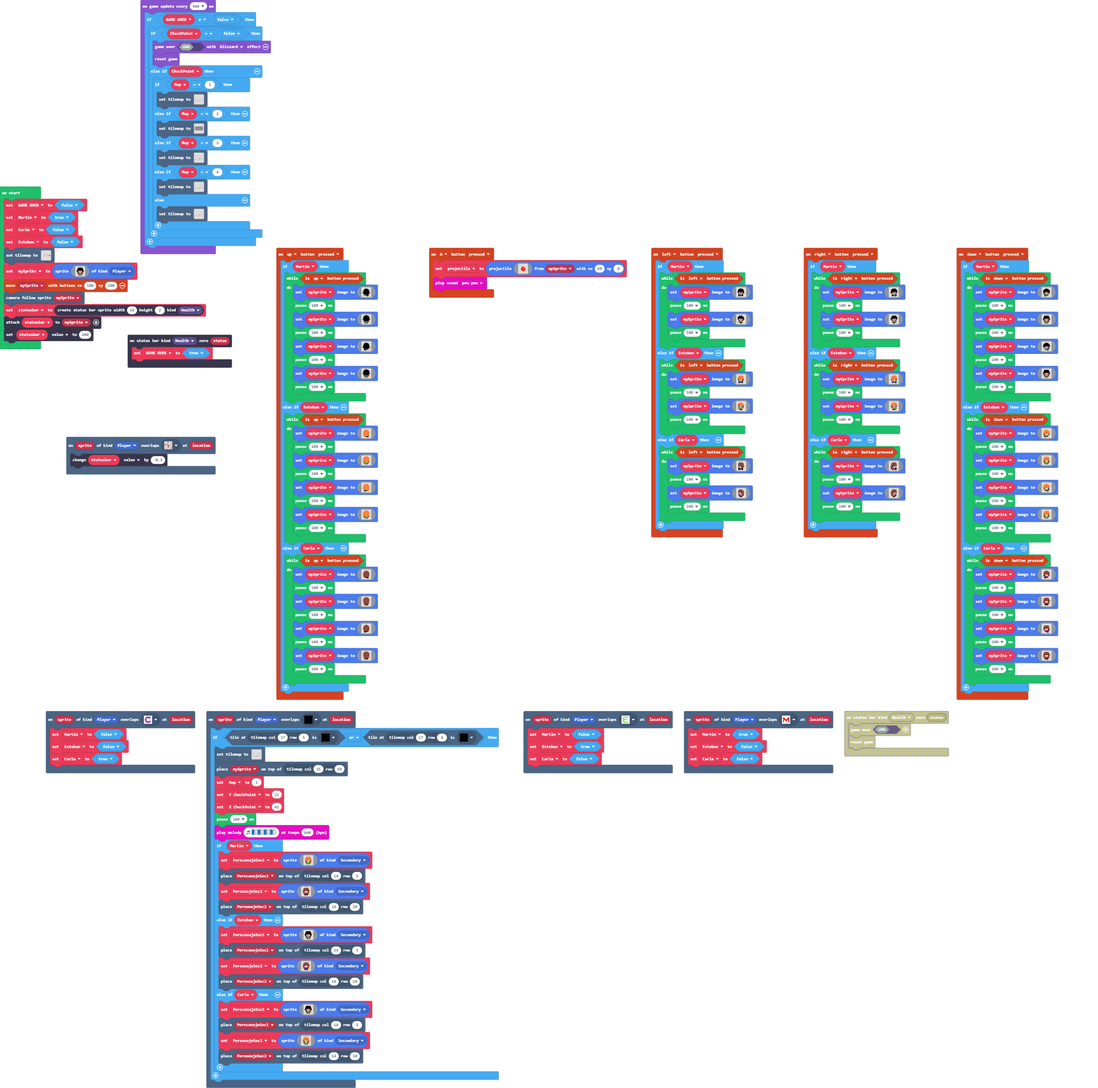
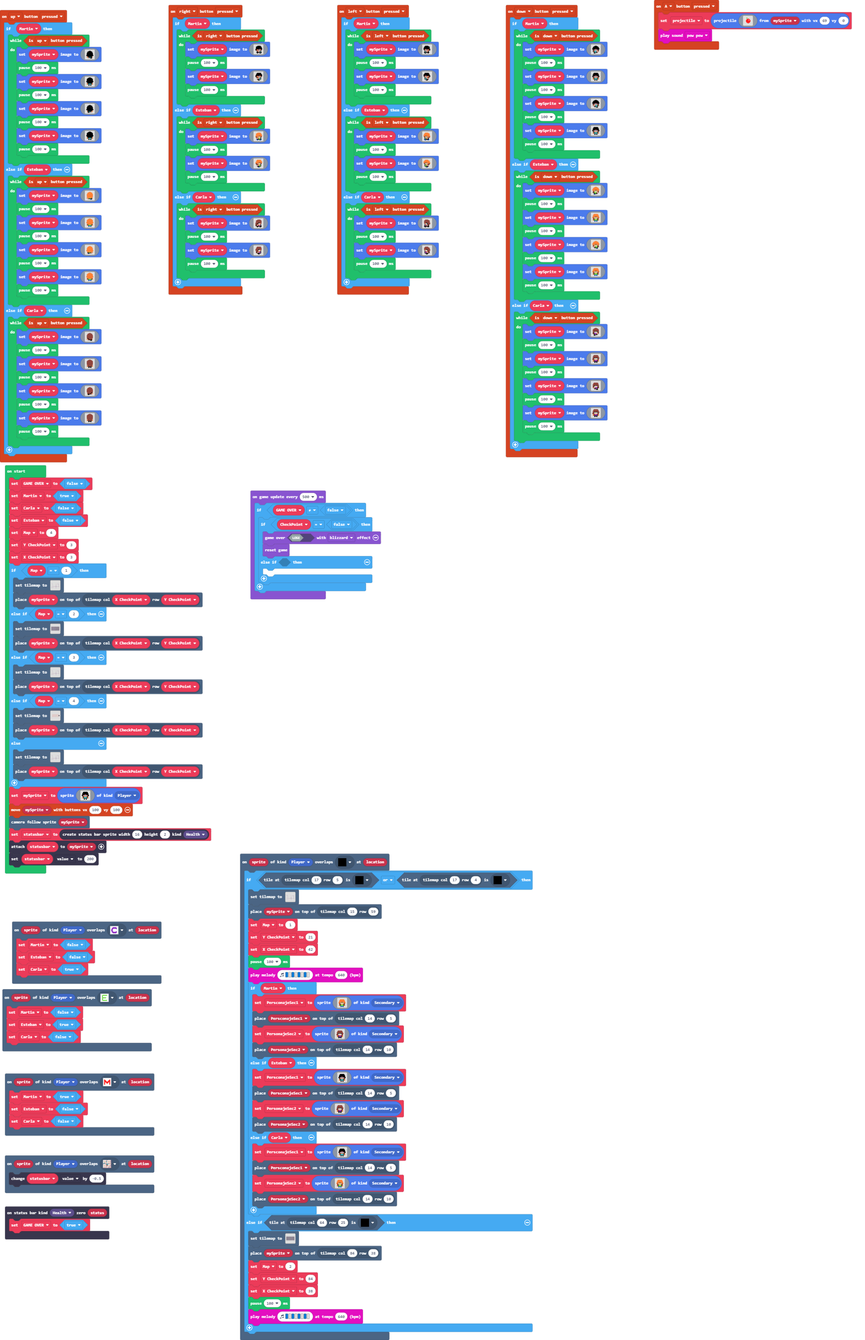
Reespawn

diff --git a/tilemap.g.ts b/tilemap.g.ts
@@ -684,8 +684,65 @@ namespace myTiles {
 . . . . . . . . . . . . . . . . 
 . . . . . . . . . . . . . . . . 
 `, [myTiles.transparency16], TileScale.Sixteen);
+            case "level11":
+            case "level11":return tiles.createTilemap(hex`1000100000000000000000000000000000000000000000000000000000000000000000000000000000000000000000000000000000000000000000000000000000000000000000000000000000000000000000000000000000000000000000000000000000000000000000000000000000000000000000000000000000000000000000000000000000000000000000000000000000000000000000000000000000000000000000000000000000000000000000000000000000000000000000000000000000000000000000000000000000000000000000000000000000000000000000000000000000000000000000000000000000000000000000000000000000000000`, img`
+. . . . . . . . . . . . . . . . 
+. . . . . . . . . . . . . . . . 
+. . . . . . . . . . . . . . . . 
+. . . . . . . . . . . . . . . . 
+. . . . . . . . . . . . . . . . 
+. . . . . . . . . . . . . . . . 
+. . . . . . . . . . . . . . . . 
+. . . . . . . . . . . . . . . . 
+. . . . . . . . . . . . . . . . 
+. . . . . . . . . . . . . . . . 
+. . . . . . . . . . . . . . . . 
+. . . . . . . . . . . . . . . . 
+. . . . . . . . . . . . . . . . 
+. . . . . . . . . . . . . . . . 
+. . . . . . . . . . . . . . . . 
+. . . . . . . . . . . . . . . . 
+`, [myTiles.transparency16], TileScale.Sixteen);
+            case "level12":
+            case "level12":return tiles.createTilemap(hex`1000100000000000000000000000000000000000000000000000000000000000000000000000000000000000000000000000000000000000000000000000000000000000000000000000000000000000000000000000000000000000000000000000000000000000000000000000000000000000000000000000000000000000000000000000000000000000000000000000000000000000000000000000000000000000000000000000000000000000000000000000000000000000000000000000000000000000000000000000000000000000000000000000000000000000000000000000000000000000000000000000000000000000000000000000000000000000`, img`
+. . . . . . . . . . . . . . . . 
+. . . . . . . . . . . . . . . . 
+. . . . . . . . . . . . . . . . 
+. . . . . . . . . . . . . . . . 
+. . . . . . . . . . . . . . . . 
+. . . . . . . . . . . . . . . . 
+. . . . . . . . . . . . . . . . 
+. . . . . . . . . . . . . . . . 
+. . . . . . . . . . . . . . . . 
+. . . . . . . . . . . . . . . . 
+. . . . . . . . . . . . . . . . 
+. . . . . . . . . . . . . . . . 
+. . . . . . . . . . . . . . . . 
+. . . . . . . . . . . . . . . . 
+. . . . . . . . . . . . . . . . 
+. . . . . . . . . . . . . . . . 
+`, [myTiles.transparency16], TileScale.Sixteen);
+            case "level13":
+            case "level13":return tiles.createTilemap(hex`1000100000000000000000000000000000000000000000000000000000000000000000000000000000000000000000000000000000000000000000000000000000000000000000000000000000000000000000000000000000000000000000000000000000000000000000000000000000000000000000000000000000000000000000000000000000000000000000000000000000000000000000000000000000000000000000000000000000000000000000000000000000000000000000000000000000000000000000000000000000000000000000000000000000000000000000000000000000000000000000000000000000000000000000000000000000000000`, img`
+. . . . . . . . . . . . . . . . 
+. . . . . . . . . . . . . . . . 
+. . . . . . . . . . . . . . . . 
+. . . . . . . . . . . . . . . . 
+. . . . . . . . . . . . . . . . 
+. . . . . . . . . . . . . . . . 
+. . . . . . . . . . . . . . . . 
+. . . . . . . . . . . . . . . . 
+. . . . . . . . . . . . . . . . 
+. . . . . . . . . . . . . . . . 
+. . . . . . . . . . . . . . . . 
+. . . . . . . . . . . . . . . . 
+. . . . . . . . . . . . . . . . 
+. . . . . . . . . . . . . . . . 
+. . . . . . . . . . . . . . . . 
+. . . . . . . . . . . . . . . . 
+`, [myTiles.transparency16], TileScale.Sixteen);
             case "Laberinto_map2":
-            case "level1":return tiles.createTilemap(hex`5500280001010101010101010101010101010101010101010101010101010101010101010101010101010101010101010101010101010101010101010101010101010101010101010101010101010101010101010101010101010202020202020202010102020202020202020202020202020202020202020202020202020202020202020201010202020202020202020202020202020202020101020202020202020202020202020202020202010102020202020202020101020202020202020202020202020202020202020202020202020202020202020202010102020202020202020202020202020202020201010202020202020202020202020202020202020101020202020202020201010202020202020202020202020202020202020202020202020202020202020202020101020202020202020202020202020202020202010102020202020202020202020202020202020201010202020101010101010102020201010202020101010101010102020201010101010101010101010102020201010202020101010101010102020201010202020101010101010101010101010202020101020202010102020201010101010101020202010102020201010101010101020202010101010101010101010101020202010102020201010101010101020202010102020201010101010101010101010102020201010202020101020202020202020202020202020101020202010102020201010202020202020202020202020201010202020202020202010102020201010202020101020202010102020202020202020202020202010102020201010202020202020202020202020201010202020101020202010102020202020202020202020202010102020202020202020101020202010102020201010202020101020202020202020202020202020101020202010102020202020202020202020202010102020201010202020101020202020202020202020202020101020202020202020201010202020101020202010102020201010202020202020202020202020201010202020101010101010102020201010101010101020202010102020201010101010101010101010102020201010101010101010101010102020201010202020101020202010102020201010101010101010101010102020201010101010101020202010101010101010202020101020202010101010101010101010101020202010101010101010101010101020202010102020201010202020101020202010101010101010101010101020202010102020201010202020101020202020202020202020202020101020202020202020201010202020202020202010102020202020202020202020202010102020202020202020101020202020202020201010202020101020202010102020201010202020202020202020202020201010202020202020202010102020202020202020101020202020202020202020202020101020202020202020201010202020202020202010102020201010202020101020202010102020202020202020202020202010102020202020202020101020202020202020201010202020202020202020202020201010202020202020202010102020202020202020101020202010102020201010202020101020202010101010101010101010101020202010101010101010101010101020202010101010101010101010101020202010101010101010101010101020202010102020201010202020101020202010102020201010202020101010101010101010101010202020101010101010101010101010202020101010101010101010101010202020101010101010101010101010202020101020202010102020201010202020202020202010102020202020202020202020202020202020202020202020101020202020202020201010202020202020202010102020201010202020202020202010102020201010202020101020202010102020202020202020101020202020202020202020202020202020202020202020201010202020202020202010102020202020202020101020202010102020202020202020101020202010102020201010202020101020202020202020201010202020202020202020202020202020202020202020202010102020202020202020101020202020202020201010202020101020202020202020201010202020101020202010102020201010101010101010101010101010101010101010101010101010102020201010202020101020202010101010101010202020101020202010101010101010202020101020202010102020201010202020101020202010101010101010101010101010101010101010101010101010101020202010102020201010202020101010101010102020201010202020101010101010102020201010202020101020202010102020201010202020101020202020202020202020202020101020202020202020202020202020101020202010102020202020202020202020202010102020202020202020101020202010102020202020202020101020202020202020201010202020202020202020202020201010202020202020202020202020201010202020101020202020202020202020202020101020202020202020201010202020101020202020202020201010202020202020202010102020202020202020202020202010102020202020202020202020202010102020201010202020202020202020202020201010202020202020202010102020201010202020202020202010102020202020202020101020202010101010101010202020101020202010101010101010101010101010101010101010101010101010101010101010102020201010202020101020202010101010101010101010101010101010101010101010202020101010101010102020201010202020101010101010101010101010101010101010101010101010101010101010101020202010102020201010202020101010101010101010101010101010101010101010102020201010202020202020202010102020201010202020202020202010102020202020202020202020202010102020202020202020101020202010102020202020202020101020202010102020202020202020101020202010102020202020202020101020202010102020202020202020101020202020202020202020202020101020202020202020201010202020101020202020202020201010202020101020202020202020201010202020101020202020202020201010202020101020202020202020201010202020202020202020202020201010202020202020202010102020201010202020202020202010102020201010202020202020202010102020201010202020101020202010102020201010202020101020202010102020201010202020101020202010102020201010101010101020202010101010101010202020101020202010102020201010202020101020202010102020201010202020101020202010102020201010202020101020202010102020201010202020101020202010101010101010202020101010101010102020201010202020101020202010102020201010202020101020202010102020201010202020202020202010102020202020202020101020202010102020201010202020101020202010102020202020202020101020202010102020202020202020101020202010102020201010202020101020202010102020202020202020101020202020202020201010202020101020202010102020201010202020101020202020202020201010202020101020202020202020201010202020101020202010102020201010202020101020202020202020201010202020202020202010102020201010202020101020202010102020201010202020202020202010102020201010202020202020202010102020201010202020101020202010101010101010101010101010101010101010101010101010101020202010101010101010202020101020202010101010101010202020101020202010101010101010101010101020202010102020201010202020101010101010101010101010101010101010101010101010101010202020101010101010102020201010202020101010101010102020201010202020101010101010101010101010202020101020202010102020202020202020202020202020202020202020202020202020202020202020201010202020202020202010102020202020202020202020202010102020202020202020202020202020202020202010202020101020202020202020202020202020202020202020202020202020202020202020202010102020202020202020101020202020202020202020202020101020202020202020202020202020202020202020102020201010202020202020202020202020202020202020202020202020202020202020202020101020202020202020201010202020202020202020202020201010202020202020202020202020202020202020201020202010101010101010101010101010101010101010101010101010101010101010101010101010101010101010101010101010101010101010101010101010101010101010101010101010101010101010101`, img`
+            case "level1":return tiles.createTilemap(hex`5500280001010101010101010101010101010101010101010101010101010101010101010101010101010101010101010101010101010101010101010101010101010101010101010101010101010101010101010101010101010202020202020202010102020202020202020202020202020202020202020202020202020202020202020201010202020202020202020202020202020202020101020202020202020202020202020202020202010102020202020202020101020202020202020202020202020202020202020202020202020202020202020202010102020202020202020202020202020202020201010202020202020202020202020202020202020101020202020202020201010202020202020202020202020202020202020202020202020202020202020202020101020202020202020202020202020202020202010102020202020202020202020202020202020201010202020101010101010102020201010202020101010101010102020201010101010101010101010102020201010202020101010101010102020201010202020101010101010101010101010202020101020202010102020201010101010101020202010102020201010101010101020202010101010101010101010101020202010102020201010101010101020202010102020201010101010101010101010102020201010202020101020202020202020202020202020101020202010102020201010202020202020202020202020201010202020202020202010102020201010202020101020202010102020202020202020202020202010102020201010202020202020202020202020201010202020101020202010102020202020202020202020202010102020202020202020101020202010102020201010202020101020202020202020202020202020101020202010102020202020202020202020202010102020201010202020101020202020202020202020202020101020202020202020201010202020101020202010102020201010202020202020202020202020201010202020101010101010102020201010101010101020202010102020201010101010101010101010102020201010101010101010101010102020201010202020101020202010102020201010101010101010101010102020201010101010101020202010101010101010202020101020202010101010101010101010101020202010101010101010101010101020202010102020201010202020101020202010101010101010101010101020202010102020201010202020101020202020202020202020202020101020202020202020201010202020202020202010102020202020202020202020202010102020202020202020101020202020202020201010202020101020202010102020201010202020202020202020202020201010202020202020202010102020202020202020101020202020202020202020202020101020202020202020201010202020202020202010102020201010202020101020202010102020202020202020202020202010102020202020202020101020202020202020201010202020202020202020202020201010202020202020202010102020202020202020101020202010102020201010202020101020202010101010101010101010101020202010101010101010101010101020202010101010101010101010101020202010101010101010101010101020202010102020201010202020101020202010102020201010202020101010101010101010101010202020101010101010101010101010202020101010101010101010101010202020101010101010101010101010202020101020202010102020201010202020202020202010102020202020202020202020202020202020202020202020101020202020202020201010202020202020202010102020201010202020202020202010102020201010202020101020202010102020202020202020101020202020202020202020202020202020202020202020201010202020202020202010102020202020202020101020202010102020202020202020101020202010102020201010202020101020202020202020201010202020202020202020202020202020202020202020202010102020202020202020101020202020202020201010202020101020202020202020201010202020101020202010102020201010101010101010101010101010101010101010101010101010102020201010202020101020202010101010101010202020101020202010101010101010202020101020202010102020201010202020101020202010101010101010101010101010101010101010101010101010101020202010102020201010202020101010101010102020201010202020101010101010102020201010202020101020202010102020201010202020101020202020202020202020202020101020202020202020202020202020101020202010102020202020202020202020202010102020202020202020101020202010102020202020202020101020202020202020201010202020202020202020202020201010202020202020202020202020201010202020101020202020202020202020202020101020202020202020201010202020101020202020202020201010202020202020202010102020202020202020202020202010102020202020202020202020202010102020201010202020202020202020202020201010202020202020202010102020201010202020202020202010102020202020202020101020202010101010101010202020101020202010101010101010101010101010101010101010101010101010101010101010102020201010202020101020202010101010101010101010101010101010101010101010202020101010101010102020201010202020101010101010101010101010101010101010101010101010101010101010101020202010102020201010202020101010101010101010101010101010101010101010102020201010202020202020202010102020201010202020202020202010102020202020202020202020202010102020202020202020101020202010102020202020202020101020202010102020202020202020101020202010102020202020202020101020202010102020202020202020101020202020202020202020202020101020202020202020201010202020101020202020202020201010202020101020202020202020201010202020101020202020202020201010202020101020202020202020201010202020202020202020202020201010202020202020202010102020201010202020202020202010102020201010202020202020202010102020201010202020101020202010102020201010202020101020202010102020201010202020101020202010102020201010101010101020202010101010101010202020101020202010102020201010202020101020202010102020201010202020101020202010102020201010202020101020202010102020201010202020101020202010101010101010202020101010101010102020201010202020101020202010102020201010202020101020202010102020201010202020202020202010102020202020202020101020202010102020201010202020101020202010102020202020202020101020202010102020202020202020101020202010102020201010202020101020202010102020202020202020101020202020202020201010202020101020202010102020201010202020101020202020202020201010202020101020202020202020201010202020101020202010102020201010202020101020202020202020201010202020202020202010102020201010202020101020202010102020201010202020202020202010102020201010202020202020202010102020201010202020101020202010101010101010101010101010101010101010101010101010101020202010101010101010202020101020202010101010101010202020101020202010101010101010101010101020202010102020201010202020101010101010101010101010101010101010101010101010101010202020101010101010102020201010202020101010101010102020201010202020101010101010101010101010202020101020202010102020202020202020202020202020202020202020202020202020202020202020201010202020202020202010102020202020202020202020202010102020202020202020202020202020202020202010202020101020202020202020202020202020202020202020202020202020202020202020202010102020202020202020101020202020202020202020202020101020202020202020302020202020202020202020102020201010202020202020202020202020202020202020202020202020202020202020202020101020202020202020201010202020202020202020202020201010202020202020202020202020202020202020201020202010101010101010101010101010101010101010101010101010101010101010101010101010101010101010101010101010101010101010101010101010101010101010101010101010101010101010101`, img`
 2222222222222222222222222222222222222222222222222222222222222222222222222222222222222
 2........22.................................22..................22..................2
 2........22.................................22..................22..................2
@@ -726,7 +783,45 @@ namespace myTiles {
 2...22.................................22........22.............22...................
 2...22.................................22........22.............22...................
 2...222222222222222222222222222222222222222222222222222222222222222222222222222222222
-`, [myTiles.transparency16,sprites.builtin.forestTiles10,sprites.dungeon.darkGroundCenter], TileScale.Sixteen);
+`, [myTiles.transparency16,sprites.builtin.forestTiles10,sprites.dungeon.darkGroundCenter,sprites.dungeon.floorLightMoss], TileScale.Sixteen);
+            case "level14":
+            case "level14":return tiles.createTilemap(hex`1000100000000000000000000000000000000000000000000000000000000000000000000000000000000000000000000000000000000000000000000000000000000000000000000000000000000000000000000000000000000000000000000000000000000000000000000000000000000000000000000000000000000000000000000000000000000000000000000000000000000000000000000000000000000000000000000000000000000000000000000000000000000000000000000000000000000000000000000000000000000000000000000000000000000000000000000000000000000000000000000000000000000000000000000000000000000000`, img`
+. . . . . . . . . . . . . . . . 
+. . . . . . . . . . . . . . . . 
+. . . . . . . . . . . . . . . . 
+. . . . . . . . . . . . . . . . 
+. . . . . . . . . . . . . . . . 
+. . . . . . . . . . . . . . . . 
+. . . . . . . . . . . . . . . . 
+. . . . . . . . . . . . . . . . 
+. . . . . . . . . . . . . . . . 
+. . . . . . . . . . . . . . . . 
+. . . . . . . . . . . . . . . . 
+. . . . . . . . . . . . . . . . 
+. . . . . . . . . . . . . . . . 
+. . . . . . . . . . . . . . . . 
+. . . . . . . . . . . . . . . . 
+. . . . . . . . . . . . . . . . 
+`, [myTiles.transparency16], TileScale.Sixteen);
+            case "level15":
+            case "level15":return tiles.createTilemap(hex`1000100000000000000000000000000000000000000000000000000000000000000000000000000000000000000000000000000000000000000000000000000000000000000000000000000000000000000000000000000000000000000000000000000000000000000000000000000000000000000000000000000000000000000000000000000000000000000000000000000000000000000000000000000000000000000000000000000000000000000000000000000000000000000000000000000000000000000000000000000000000000000000000000000000000000000000000000000000000000000000000000000000000000000000000000000000000000`, img`
+. . . . . . . . . . . . . . . . 
+. . . . . . . . . . . . . . . . 
+. . . . . . . . . . . . . . . . 
+. . . . . . . . . . . . . . . . 
+. . . . . . . . . . . . . . . . 
+. . . . . . . . . . . . . . . . 
+. . . . . . . . . . . . . . . . 
+. . . . . . . . . . . . . . . . 
+. . . . . . . . . . . . . . . . 
+. . . . . . . . . . . . . . . . 
+. . . . . . . . . . . . . . . . 
+. . . . . . . . . . . . . . . . 
+. . . . . . . . . . . . . . . . 
+. . . . . . . . . . . . . . . . 
+. . . . . . . . . . . . . . . . 
+. . . . . . . . . . . . . . . . 
+`, [myTiles.transparency16], TileScale.Sixteen);
         }
         return null;
     })

diff --git a/main.ts b/main.ts
@@ -10,7 +10,7 @@ controller.up.onEvent(ControllerButtonEvent.Pressed, function () {
             pause(100)
             mySprite.setImage(assets.image`Martin_10`)
             pause(100)
-            mySprite.setImage(assets.image`Martin_14`)
+            mySprite.setImage(assets.image`Martin_7`)
             pause(100)
         }
     } else if (Esteban) {
@@ -98,6 +98,14 @@ scene.onOverlapTile(SpriteKind.Player, sprites.builtin.forestTiles10, function (
             PersonajeSec2 = sprites.create(assets.image`Esteban_8`, SpriteKind.Secondary)
             tiles.placeOnTile(PersonajeSec2, tiles.getTileLocation(14, 10))
         }
+    } else if (tiles.tileAtLocationEquals(tiles.getTileLocation(64, 25), sprites.builtin.forestTiles10)) {
+        tiles.setTilemap(tilemap`Laberinto_map2`)
+        tiles.placeOnTile(mySprite, tiles.getTileLocation(84, 38))
+        Map = 2
+        Y_CheckPoint = 84
+        X_CheckPoint = 38
+        pause(100)
+        music.playMelody("E - E - E - E - ", 640)
     }
 })
 statusbars.onZero(StatusBarKind.Health, function (status) {
@@ -175,12 +183,12 @@ scene.onOverlapTile(SpriteKind.Player, assets.tile`Martin`, function (sprite, lo
 })
 let PersonajeSec2: Sprite = null
 let PersconajeSec1: Sprite = null
-let X_CheckPoint = 0
-let Y_CheckPoint = 0
-let Map = 0
 let projectile: Sprite = null
 let statusbar: StatusBarSprite = null
 let mySprite: Sprite = null
+let X_CheckPoint = 0
+let Y_CheckPoint = 0
+let Map = 0
 let Esteban = false
 let Carla = false
 let Martin = false
@@ -189,7 +197,25 @@ GAME_OVER = false
 Martin = true
 Carla = false
 Esteban = false
-tiles.setTilemap(tilemap`Character_selection`)
+Map = 4
+Y_CheckPoint = 3
+X_CheckPoint = 3
+if (Map == 1) {
+    tiles.setTilemap(tilemap`Map1`)
+    tiles.placeOnTile(mySprite, tiles.getTileLocation(X_CheckPoint, Y_CheckPoint))
+} else if (Map == 2) {
+    tiles.setTilemap(tilemap`Laberinto_map2`)
+    tiles.placeOnTile(mySprite, tiles.getTileLocation(X_CheckPoint, Y_CheckPoint))
+} else if (Map == 3) {
+    tiles.setTilemap(tilemap`Map1`)
+    tiles.placeOnTile(mySprite, tiles.getTileLocation(X_CheckPoint, Y_CheckPoint))
+} else if (Map == 4) {
+    tiles.setTilemap(tilemap`Character_selection`)
+    tiles.placeOnTile(mySprite, tiles.getTileLocation(X_CheckPoint, Y_CheckPoint))
+} else {
+    tiles.setTilemap(tilemap`Map1`)
+    tiles.placeOnTile(mySprite, tiles.getTileLocation(X_CheckPoint, Y_CheckPoint))
+}
 mySprite = sprites.create(assets.image`Martin_9`, SpriteKind.Player)
 controller.moveSprite(mySprite, 100, 100)
 scene.cameraFollowSprite(mySprite)
@@ -202,18 +228,8 @@ game.onUpdateInterval(500, function () {
         if (CheckPoint == false) {
             game.over(false, effects.blizzard)
             game.reset()
-        } else if (CheckPoint) {
-            if (Map == 1) {
-                tiles.setTilemap(tilemap`Map1`)
-            } else if (Map == 2) {
-                tiles.setTilemap(tilemap`Laberinto_map2`)
-            } else if (Map == 3) {
-                tiles.setTilemap(tilemap`Map1`)
-            } else if (Map == 4) {
-                tiles.setTilemap(tilemap`Map1`)
-            } else {
-                tiles.setTilemap(tilemap`Map1`)
-            }
+        } else if (false) {
+        	
         }
     }
 })

diff --git a/images.g.ts b/images.g.ts
@@ -622,25 +622,6 @@ cbbbbbbbbbbbbbbbbbbbbbbbbbbbbbbc
 . . . . . f f f f f f f . . . . 
 . . . . . . . . . f f f . . . . 
 `;
-            case "image6":
-            case "Martin_1":return img`
-. . . . . . . . . . . . . . . . 
-. . . . . . f f f f f f . . . . 
-. . . . f f f f f f f f f . . . 
-. . . f f f f f f f f f f f . . 
-. . . f f f f f f f f f f f . . 
-. . . f f f f f f f f f f f f . 
-. . . f f f f f f f f f f f f . 
-. . f f f f f f f e e e f f f . 
-. . f f e 4 4 e b 8 4 4 e e f . 
-. . f e e 4 d 4 1 8 d d e f . . 
-. . . f e e e 4 d d d d f . . . 
-. . . . 4 d d e 4 4 4 e f . . . 
-. . . . e d d e 6 6 6 6 f . . . 
-. . . . f e e f 9 9 9 9 f f . . 
-. . . . f f f f f f f f f f . . 
-. . . . . f f . . . f f f . . . 
-`;
             case "image10":
             case "Martin_5":return img`
 . . . . . . . . . . . . . . . . 
@@ -754,25 +735,6 @@ cbbbbbbbbbbbbbbbbbbbbbbbbbbbbbbc
 . . f f 9 9 f e e f f f . . . . 
 . . f f f f f f f f f f . . . . 
 . . . f f f . . . f f . . . . . 
-`;
-            case "image11":
-            case "Martin_6":return img`
-. . . . . . . . . . . . . . . . 
-. . . . f f f f f f . . . . . . 
-. . . f f f f f f f f . . . . . 
-. . f f f f f f f f f f f . . . 
-. f f f f f f f f f f f f . . . 
-. f f f f f f f f f f f f . . . 
-. f f f e e e f f f f f f f . . 
-. f e e 4 4 8 b e 4 4 e f f . . 
-. . f e d d 8 1 4 d 4 e e f . . 
-. . . f d d d d 4 e e e f . . . 
-. . . f e 4 4 4 e e f f . . . . 
-. . . f 6 6 6 e d d 4 . . . . . 
-. . . f 6 6 6 e d d e . . . . . 
-. . . f 9 9 9 f e e f . . . . . 
-. . . . f f f f f f . . . . . . 
-. . . . . . f f f . . . . . . . 
 `;
             case "image22":
             case "Esteban_2":return img`
@@ -925,6 +887,44 @@ cbbbbbbbbbbbbbbbbbbbbbbbbbbbbbbc
 . . 4 4 f 9 9 9 9 9 9 f 4 4 . . 
 . . . . . f f f f f f . . . . . 
 . . . . . f f . . f f . . . . . 
+`;
+            case "image6":
+            case "Martin_1":return img`
+. . . . . . . . . . . . . . . . 
+. . . . . . f f f f f f . . . . 
+. . . . f f f f f f f f f . . . 
+. . . f f f f f f f f f f f . . 
+. . . f f f f f f f f f f f . . 
+. . . f f f f f f f f f f f f . 
+. . . f f f f f f f f f f f f . 
+. . f f f f f f f e e e f f f . 
+. . f f e 4 4 e b 8 4 4 e e f . 
+. . f e e 4 d 4 1 8 d d e f . . 
+. . . f e e e e e d d d f . . . 
+. . . . . f 4 d d e 4 e f . . . 
+. . . . . f e d d e 6 6 f . . . 
+. . . . f f f e e f 9 9 f f . . 
+. . . . f f f f f f f f f f . . 
+. . . . . f f . . . f f f . . . 
+`;
+            case "image11":
+            case "Martin_6":return img`
+. . . . . . . . . . . . . . . . 
+. . . f f f f f f f f . . . . . 
+. . . f f f f f f f f f . . . . 
+. . f f f f f f f f f f . . . . 
+. f f f f f f f f f f f f . . . 
+. f f f f f f f f f f f f . . . 
+. f f f e e e f f f f f f f . . 
+. f e e 4 4 8 b e 4 4 e f f . . 
+. . f e d d 8 1 4 d 4 e e f . . 
+. . . f d d d d 4 e e e f . . . 
+. . . f e 4 4 4 e e f f . . . . 
+. . . f 6 6 6 e d d 4 . . . . . 
+. . . f 6 6 6 e d d e . . . . . 
+. . . f 9 9 9 f e e f . . . . . 
+. . . . f f f f f f . . . . . . 
+. . . . . . f f f . . . . . . . 
 `;
         }
         return null;
